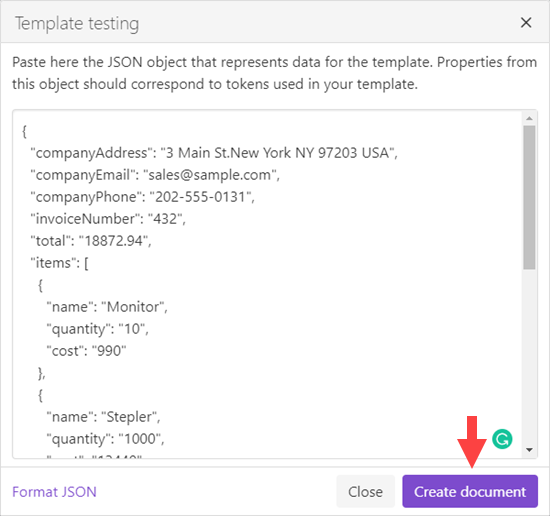
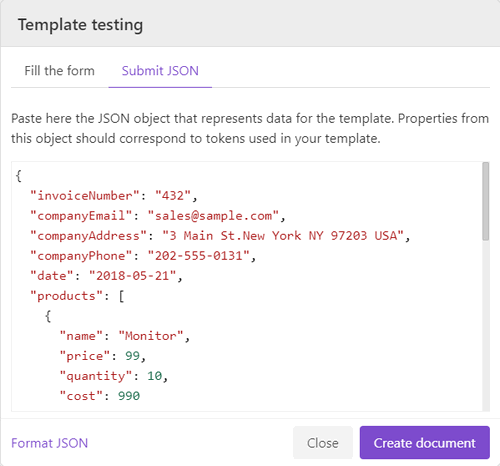
forms generation

diff --git a/source/user-guide/processes/customize-forms.rst b/source/user-guide/processes/customize-forms.rst
@@ -1,0 +1,112 @@
+Customize forms
+===============
+
+For your convenience Plumsail Documents processes create default web forms based on tokens from the document template.
+
+You can use these forms `to test the template <./test-template.html>`_ or `to start the process <./start-process-web-form.html>`_. Relevant information on both cases can be found in the corresponding section of the documentation.
+
+Here we'll show you how to customize default forms and adjust them to your needs. One way is for slight adjustments; another is for more complex customization.
+
+.. contents::
+    :local:
+    :depth: 2
+
+.. _custom-testing-form:
+
+Change types of template tokens to customize form
+~~~~~~~~~~~~~~~~~~~~~~~~~~~~~~~~~~~~~~~~~~~~~~~~~
+
+You can change the type of form fields by changing the type of template tokens. 
+
+Here is a table with all token types and corresponding fields in the auto-generated form:
+
+.. list-table:: 
+    :widths: 40 60
+    :header-rows: 1
+
+    *   - Token type
+        - Form field
+    *   - string
+        - text (allows all the symbols)
+    *   - date
+        - date picker
+    *   - number
+        - number (allows numbers only) 
+    *   - boolean
+        - toggle (on-off)
+    *   - collection
+        - data table
+    *   - object
+        - not supported 
+
+Let's learn how changing token types affect the look of the default form by an example of an invoice template with the list of products and their properties:
+
+.. image:: /_static/img/user-guide/processes/invoice-template.png
+   :alt: example of template
+
+Click on :code:`{} Tokens`. The process will pull all tokens from the document template. You'll see them in such a dialog:
+
+.. image:: /_static/img/user-guide/processes/tokens-button.png
+   :alt: tokens button
+
+By default, all one-part tokens have a string attribution. All nesting tokens (with a dot operator) are set to be a collection.
+
+.. image:: /_static/img/user-guide/processes/tokens-types.png
+   :alt: tokens types
+
+Let's check how they will appear in the testing form. Click on 'Test template' to see it. 
+
+Strings turned into text fields, collection of products - into a data table:
+
+.. image:: /_static/img/user-guide/processes/default-test-form.png
+   :alt: default form fields
+
+Obviously, a date field will have a date value; and some fields (like quantity or prices) will have numeric values. 
+
+You can change the type for those tokens to adjust the form's look. 
+
+.. image:: /_static/img/user-guide/processes/change-token.gif
+   :alt: change token types
+
+We have changed tokens types and checking the testing form. Now, for the date, we have a date field with the ability to pick the date from the calendar. 
+For quantity and prices, we have numeric fields supporting numbers only.
+
+.. image:: /_static/img/user-guide/processes/adjusted-default-form.png
+   :alt: change token types
+
+.. important:: Nesting tokens referring to the single object, not the collection of items, won't work in the form. Thus, if you have some nesting tokens like :code:`{{company.name}}`, :code:`{{company.address}}`, it's better to get rid of a dot operator and change them to simple tokens like :code:`{{companyName}}` and :code:`{{companyAddress}}`. 
+
+
+.. _custom-plumsail-form:
+
+Use Plumsail Forms to customize form
+~~~~~~~~~~~~~~~~~~~~~~~~~~~~~~~~~~~~
+
+It's possible to add more complex controls and conditional logic to the default form using `Plumsail Forms <https://plumsail.com/forms/public-forms/>`_.
+
+For that, on the step 'Start process' click on the 'Customize icon' opposite the default form:
+
+.. image:: /_static/img/user-guide/processes/customize-form-icon.png
+   :alt: customize form icon
+
+**OR** click on the 'New form' button and select 'Create new form':
+
+.. image:: /_static/img/user-guide/processes/create-new-form.png
+   :alt: create new form 
+
+.. note:: At this point, you'll be notified that you're starting using Plumsail Forms under a `free Scooter plan <https://plumsail.com/forms/store/public-forms/>`_. It includes 100 submissions in a month and has some limitations of file storage. Switch to a higher plan at any time.
+
+After that, you'll be redirected to the web designer of Plumsail Forms. There you can customize the default form according to your needs.
+
+Find out more about `how to design Plumsail web forms <https://plumsail.com/docs/forms-web/design.html>`_.
+
+
+
+
+
+
+
+
+
+
+

diff --git a/source/user-guide/processes/test-template.rst b/source/user-guide/processes/test-template.rst
@@ -1,29 +1,52 @@
 Test template with your data
 =============================
 
-You can test the document template to see an example of the resulting file from Editor and Settings substeps of the Configure template step. 
+.. contents::
+  :local:
 
-**Testing from the editor**
+You can test the document template to see an example of the resulting file from the Editor and Settings substeps of the Configure template step. 
 
-The first option – testing from the Editor step – will help to see how your modifications to the template affect the result.
+Testing from the editor
+~~~~~~~~~~~~~~~~~~~~~~~
+
+The first option – testing from the Editor substep – will help to see how your modifications to the template affect the result.
 
 .. image:: ../../_static/img/user-guide/processes/test-template-from-editor.png
     :alt: Test template from editor step
 
-**Testing from the settings**
+Testing from the settings
+~~~~~~~~~~~~~~~~~~~~~~~~~
 
-The second option – testing from the Settings step – will show you how the finalized document will look after you’ve customized all the settings. 
+The second option – testing from the Settings substep – will show you how the finalized document will look after you’ve customized all the settings. 
 
 .. image:: ../../_static/img/user-guide/processes/test-template-from-settings.png
     :alt: Test template from settings step
 
-**What to do after you clicked on the Test template?**
+What to do after you clicked on the Test template?
+~~~~~~~~~~~~~~~~~~~~~~~~~~~~~~~~~~~~~~~~~~~~~~~~~~
 
-After that, you will see the dialog where you can put your data in JSON format:
+After that, you will see the dialog with two options for testing the template - `Fill the form`_ and `Submit JSON`_.
 
-.. image:: ../../_static/img/user-guide/processes/template-test-dialog.png
-    :alt: Test template dialog
+Fill the form
+-------------
 
-Just click *Create document* to apply this data to your template and review the resulting document.
+The process creates a testing form based on tokens from the template. 
+You just complete it and press 'Create document'. The resulting document will appear in a new tab. 
+
+.. image:: /_static/img/user-guide/processes/default-test-form.png
+   :alt: default form fields
+
+It's possible to `adjust the testing form by changing token types <./customize-forms.html>`_.
+
+.. important:: Nesting tokens referring to the single object, not the collection of items, won't work in the testing form. Thus, if you have some nesting tokens like :code:`{{company.name}}`, :code:`{{company.address}}`, get rid of a dot operator and change them to simple tokens like :code:`{{companyName}}` and :code:`{{companyAddress}}`. You can **keep them** and `submit JSON`_ for testing the template instead.
+
+Submit JSON
+-----------
+
+Insert the JSON object representing the data for the document template and click on the 'Create document' button. This type of testing may be useful if your document template is complex or you already have JSON output from third systems.
+
+
+.. image:: /_static/img/user-guide/processes/template-test-dialog.png
+   :alt: default form fields
 
 .. Note:: Once you tested the template you can `configure how to deliver the result document <create-delivery.html>`_ (email, OneDrive, etc). Just click the *Save & Next* button in the *Configure template* step.

diff --git a/source/user-guide/processes/start-process-web-form.rst b/source/user-guide/processes/start-process-web-form.rst
@@ -1,13 +1,32 @@
 Web form
 ========
 
-.. contents:: Table of contents
+You can start your process by submitting a web form.  
+You can either utilize the auto-generated form or create a new form using `Plumsail Forms <https://plumsail.com/forms/>`_ and bind it to the process.
+
+.. contents::
   :local:
 
-Introduction
-------------
+Use auto-generated form
+~~~~~~~~~~~~~~~~~~~~~~~
 
-You can start your process by submitting a public `Plumsail Form <https://plumsail.com/forms/>`_. It is another Plumsail product that allows you designing forms using drag and drop user interface.
+The process pulls tokens from your document template and creates a web form based on them. This auto-generated form will stay bound to the process. 
+
+.. image:: ../../_static/img/user-guide/processes/default-bound-form.png
+    :alt: default bound form
+
+You can modify it a bit and make it more user-friendly by changing token types. 
+
+Find out how to `change types of template tokens to customize the default form <./customize-forms.html#custom-testing-form>`_.
+
+You can share the form's link or use the widget to publish it on the public website. And every time somebody submits the form, the process will run. 
+
+Another option is to customize the auto-generated form or create a new web form using `Plumsail Forms <https://plumsail.com/forms/>`_. 
+
+Create new form
+~~~~~~~~~~~~~~~~
+
+With `Plumsail Forms`_, you can create public web forms with complex controls and conditional logic. It has a handy designer with a drag-and-drop approach.
 
 This is how the designer of forms looks:
 
@@ -17,7 +36,7 @@ This is how the designer of forms looks:
 .. Note:: Learn more about public Plumsail Forms in our `documentation <https://plumsail.com/docs/forms-web/introduction.html>`_ and `start designing forms <https://plumsail.com/docs/forms-web/design.html>`_.
 
 Bind form to process
---------------------
+~~~~~~~~~~~~~~~~~~~~
 
 Once you created your first form you can associate it with your process. The process will be started after each form submission. Just click "Bind form" button:
 
@@ -32,7 +51,7 @@ Then select the form you created earlier in the dialog:
 You can bind a few forms to the same process. Any of those forms will start the process.
 
 Understand the structure of data sent by a form
------------------------------------------------
+~~~~~~~~~~~~~~~~~~~~~~~~~~~~~~~~~~~~~~~~~~~~~~~
 
 The form sends JSON data to the process when it is submitted. This data will be applied to your template. It is crucial to understand the structure of this JSON object to create the correct document template.
 
@@ -46,6 +65,6 @@ You can see the full JSON object submitted by a form in `form submissions <https
 .. image:: ../../_static/img/user-guide/processes/form-submissions.png
     :alt: Form submissions
 
-Use properties from this JSON object when `creating your template <create-template.html>`_.
+Use properties from this JSON object when `creating your template <edit-test-template.html>`_.
 
 .. note:: Also, you can start your process using `Power Automate (Microsoft Flow) <start-process-ms-flow.html>`_ or `REST API <start-process-rest-api.html>`_.

diff --git a/source/user-guide/processes/edit-test-template.rst b/source/user-guide/processes/edit-test-template.rst
@@ -91,7 +91,11 @@ Or right from the online editor:
 .. image:: ../../_static/img/user-guide/processes/test-button-template.png
     :alt: Test template button in Online editor
 
-After you've clicked on the **Test template**, the dialog appears. You need to insert your source data in JSON and click on **Create document**. 
+After you've clicked on the **Test template**, the dialog appears and you will see two options for testing the template. 
+
+You can fill the testing form or submit JSON representing data for the document template. 
+
+Read more about `testing templates <./test-template.html>`_. 
 
 You'll be able to test the template after you `configured output file settings <./configure-settings.html>`_ as well.
 

diff --git a/source/user-guide/processes/index.rst b/source/user-guide/processes/index.rst
@@ -32,6 +32,7 @@ Advanced
   :titlesonly:
   :maxdepth: 1
 
+  customize-forms
   runs-history
   online-editor
 
